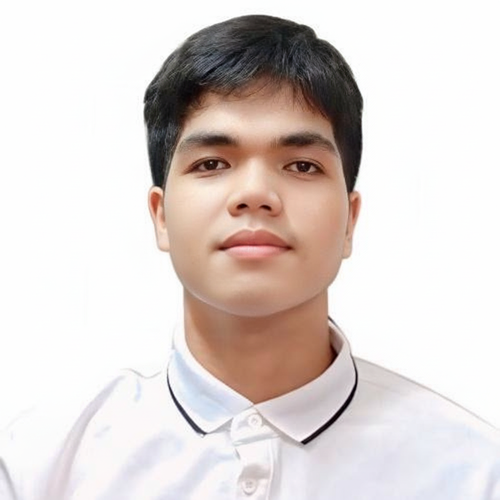
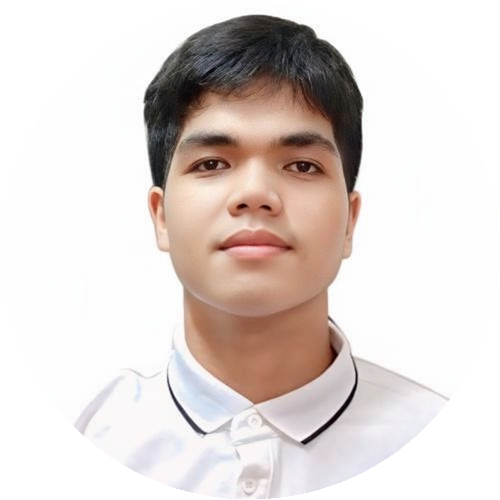
feat: add initial portfolio website layout, styling, and profile assets

diff --git a/iPortfolio-1.0.0/iPortfolio-1.0.0/index.html b/iPortfolio-1.0.0/iPortfolio-1.0.0/index.html
@@ -142,76 +142,32 @@
         <!-- Section Title -->
         <div class="container section-title" data-aos="fade-up">
           <h2>About</h2>
-          <p>
-            My name is Christian James Mandani, and I am a dedicated student
-            with a strong interest in computer aided design and hands-on
-            learning. I enjoy developing my skills in problem-solving, teamwork,
-            and computer-related tasks. Outside of academics, I like exploring
-            new knowledge about designing and improving my technical knowledge.
-            I am motivated to continue learning, gain valuable experience, and
-            build a successful future in my chosen field.
-          </p>
         </div>
         <!-- End Section Title -->
 
         <div class="container" data-aos="fade-up" data-aos-delay="100">
           <div class="row gy-4 justify-content-center">
             <div class="col-lg-4">
-              <img
-                src="assets/img/ID PIC 1X1,2X2.png"
-                class="img-fluid"
-                alt="Profile picture"
-              />
+              <div class="about-portrait">
+                <img
+                  src="assets/img/ID PIC 1X1,2X2.png"
+                  class="img-fluid"
+                  alt="Profile picture"
+                />
+              </div>
             </div>
             <div class="col-lg-8 content">
-              <h2>Computer Aided Designer</h2>
-              <div class="row">
-                <div class="col-lg-6">
-                  <ul>
-                    <li>
-                      <i class="bi bi-chevron-right"></i>
-                      <strong>Birthday:</strong>
-                      <span>22 January 2005</span>
-                    </li>
-                    <li>
-                      <i class="bi bi-chevron-right"></i>
-                      <strong>Website:</strong>
-                      <span>
-                        <a
-                          href="https://cjames-portfolio.vercel.app"
-                          target="_blank"
-                          rel="noopener noreferrer"
-                        >
-                          cjames-portfolio.vercel.app
-                        </a>
-                      </span>
-                    </li>
-                    <li>
-                      <i class="bi bi-chevron-right"></i>
-                      <strong>Phone:</strong>
-                      <span>09637816146</span>
-                    </li>
-                    <li>
-                      <i class="bi bi-chevron-right"></i>
-                      <strong>Address:</strong>
-                      <span>Porto Circle, Balon Anito, Mariveles Bataan</span>
-                    </li>
-                  </ul>
-                </div>
-                <div class="col-lg-6">
-                  <ul>
-                    <li>
-                      <i class="bi bi-chevron-right"></i>
-                      <strong>Age:</strong>
-                      <span>21</span>
-                    </li>
-                    <li>
-                      <i class="bi bi-chevron-right"></i>
-                      <strong>Email:</strong>
-                      <span>cjmandani2005@gmail.com</span>
-                    </li>
-                  </ul>
-                </div>
+              <div class="about-person">
+                <p>
+                  My name is Christian James Mandani, and I am a dedicated
+                  student with a strong interest in computer aided design and
+                  hands-on learning. I enjoy developing my skills in
+                  problem-solving, teamwork, and computer-related tasks. Outside
+                  of academics, I like exploring new knowledge about designing
+                  and improving my technical knowledge. I am motivated to
+                  continue learning, gain valuable experience, and build a
+                  successful future in my chosen field.
+                </p>
               </div>
             </div>
           </div>
@@ -286,11 +242,7 @@
                 <i class="bi bi-graph-up-arrow"></i>
               </div>
               <div>
-                <h4 class="title">
-                  <a href="service-details.html" class="stretched-link"
-                    >3D Modeling &amp; Visualization</a
-                  >
-                </h4>
+                <h4 class="title">3D Modeling &amp; Visualization</h4>
                 <p class="description">
                   Creation of basic 3D models and visual representations to help
                   clients better understand project designs and concepts.
@@ -308,11 +260,7 @@
                 <i class="bi bi-layout-text-window"></i>
               </div>
               <div>
-                <h4 class="title">
-                  <a href="service-details.html" class="stretched-link"
-                    >AutoCAD Drafting</a
-                  >
-                </h4>
+                <h4 class="title">AutoCAD Drafting</h4>
                 <p class="description">
                   Creation of accurate 2D technical drawings, floor plans,
                   elevations, sections, and detailed drafting based on project
@@ -331,11 +279,7 @@
                 <i class="bi bi-file-earmark-richtext"></i>
               </div>
               <div>
-                <h4 class="title">
-                  <a href="service-details.html" class="stretched-link"
-                    >CAD Conversion</a
-                  >
-                </h4>
+                <h4 class="title">CAD Conversion</h4>
                 <p class="description">
                   Conversion of hand-drawn sketches, PDF files, and scanned
                   documents into clean and editable AutoCAD drawings.

diff --git a/iPortfolio-1.0.0/iPortfolio-1.0.0/assets/css/main.css b/iPortfolio-1.0.0/iPortfolio-1.0.0/assets/css/main.css
@@ -165,6 +165,9 @@ h6 {
   margin: 15px auto;
   display: block;
   width: 120px;
+  aspect-ratio: 1;
+  object-fit: cover;
+  border-radius: 50%;
   border: 8px solid color-mix(in srgb, var(--default-color), transparent 85%);
 }
 
@@ -458,6 +461,18 @@ h6 {
   visibility: visible;
   opacity: 1;
   bottom: 15px;
+  animation: scroll-top-pulse 2s ease-in-out infinite;
+}
+
+@keyframes scroll-top-pulse {
+  0%,
+  100% {
+    transform: scale(1);
+  }
+
+  50% {
+    transform: scale(1.08);
+  }
 }
 
 /*--------------------------------------------------------------
@@ -598,18 +613,6 @@ section,
   font-size: 0.95rem;
   font-weight: 600;
   transition: 0.3s;
-  animation: hero-scroll-up-bounce 2s ease-in-out infinite;
-}
-
-@keyframes hero-scroll-up-bounce {
-  0%,
-  100% {
-    transform: translateY(0);
-  }
-
-  50% {
-    transform: translateY(-8px);
-  }
 }
 
 .hero-scroll-up-btn:hover {
@@ -618,6 +621,23 @@ section,
 
 .hero-scroll-up-btn i {
   font-size: 1.1rem;
+  display: inline-block;
+  animation: hero-scroll-arrow 0.9s ease-in-out infinite;
+}
+
+@keyframes hero-scroll-arrow {
+  0%,
+  100% {
+    transform: translateY(3px) scale(1);
+  }
+
+  35% {
+    transform: translateY(-8px) scale(1.18);
+  }
+
+  55% {
+    transform: translateY(-4px) scale(1.05);
+  }
 }
 
 .hero h2 {
@@ -683,31 +703,87 @@ section,
 /*--------------------------------------------------------------
 # About Section
 --------------------------------------------------------------*/
-.about .content h2 {
-  font-weight: 700;
-  font-size: 24px;
+.about-portrait {
+  position: relative;
+  max-width: 330px;
+  aspect-ratio: 1;
+  margin: 0 auto;
+  padding: 12px;
+  background: var(--surface-color);
+  border: 1px solid color-mix(in srgb, var(--accent-color), transparent 70%);
+  border-radius: 50%;
 }
 
-.about .content ul {
-  list-style: none;
-  padding: 0;
+.about-portrait::before,
+.about-portrait::after {
+  content: "";
+  position: absolute;
+  width: 54px;
+  height: 54px;
+  border-color: var(--accent-color);
+  border-style: solid;
+  pointer-events: none;
 }
 
-.about .content ul li {
-  margin-bottom: 20px;
-  display: flex;
-  align-items: center;
+.about-portrait::before {
+  top: -8px;
+  left: -8px;
+  border-width: 3px 0 0 3px;
 }
 
-.about .content ul strong {
-  margin-right: 10px;
+.about-portrait::after {
+  right: -8px;
+  bottom: -8px;
+  border-width: 0 3px 3px 0;
 }
 
-.about .content ul i {
-  font-size: 16px;
-  margin-right: 5px;
-  color: var(--accent-color);
-  line-height: 0;
+.about-portrait img {
+  display: block;
+  width: 100%;
+  aspect-ratio: 1;
+  object-fit: cover;
+  border-radius: 50%;
+}
+
+.about-person {
+  position: relative;
+  padding: 34px 38px;
+  border: 1px solid color-mix(in srgb, var(--accent-color), transparent 72%);
+  border-top: 4px solid var(--accent-color);
+  background: var(--surface-color);
+  box-shadow: 12px 12px 0
+    color-mix(in srgb, var(--accent-color), transparent 90%);
+}
+
+.about-person::before {
+  content: "";
+  position: absolute;
+  right: 24px;
+  top: 24px;
+  width: 36px;
+  height: 36px;
+  background: var(--accent-color);
+  opacity: 0.12;
+  clip-path: polygon(50% 0, 100% 50%, 50% 100%, 0 50%);
+}
+
+.about-person p {
+  margin: 0;
+  line-height: 1.8;
+}
+
+@media (max-width: 991px) {
+  .about-person {
+    margin-top: 18px;
+  }
+}
+
+@media (max-width: 575px) {
+  .about-person {
+    padding: 28px 24px;
+    box-shadow: 7px 7px 0
+      color-mix(in srgb, var(--accent-color), transparent 90%);
+  }
 }
 
 /*--------------------------------------------------------------
